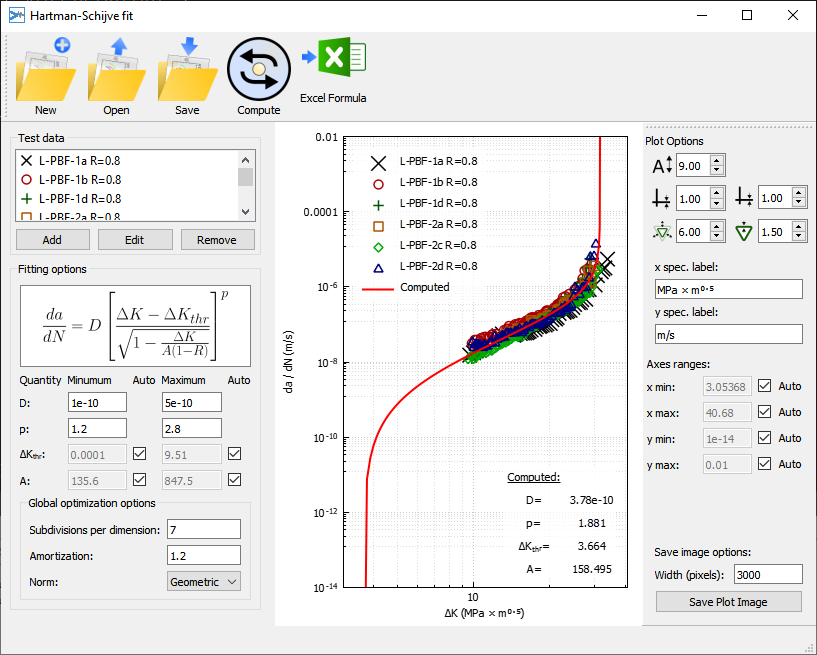
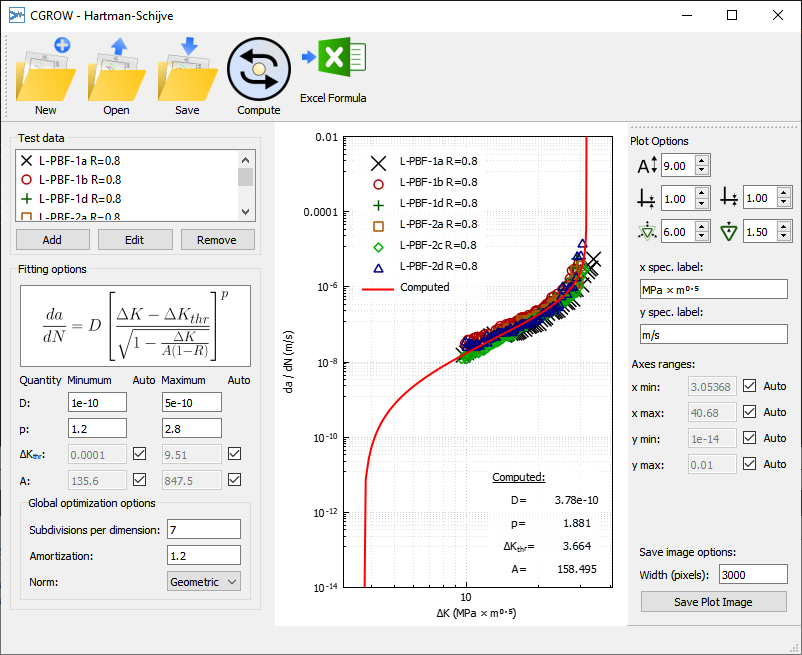
Interface and doc updates 1. Updated the GUI software name. 2. Updated the example GUI image to reflect the new name.

diff --git a/src/apps/cgrow/main.cpp b/src/apps/cgrow/main.cpp
@@ -15,7 +15,7 @@ int main(int argc, char* argv[])
     QApplication app(argc, argv);
 
     QApplication::setOrganizationName(("U.S. Naval Research Lab"));
-    QApplication::setApplicationName( ("Hartman-Schijve fit"));
+    QApplication::setApplicationName( ("CGROW - Hartman-Schijve"));
 
     register_qt_meta_types( );
 
